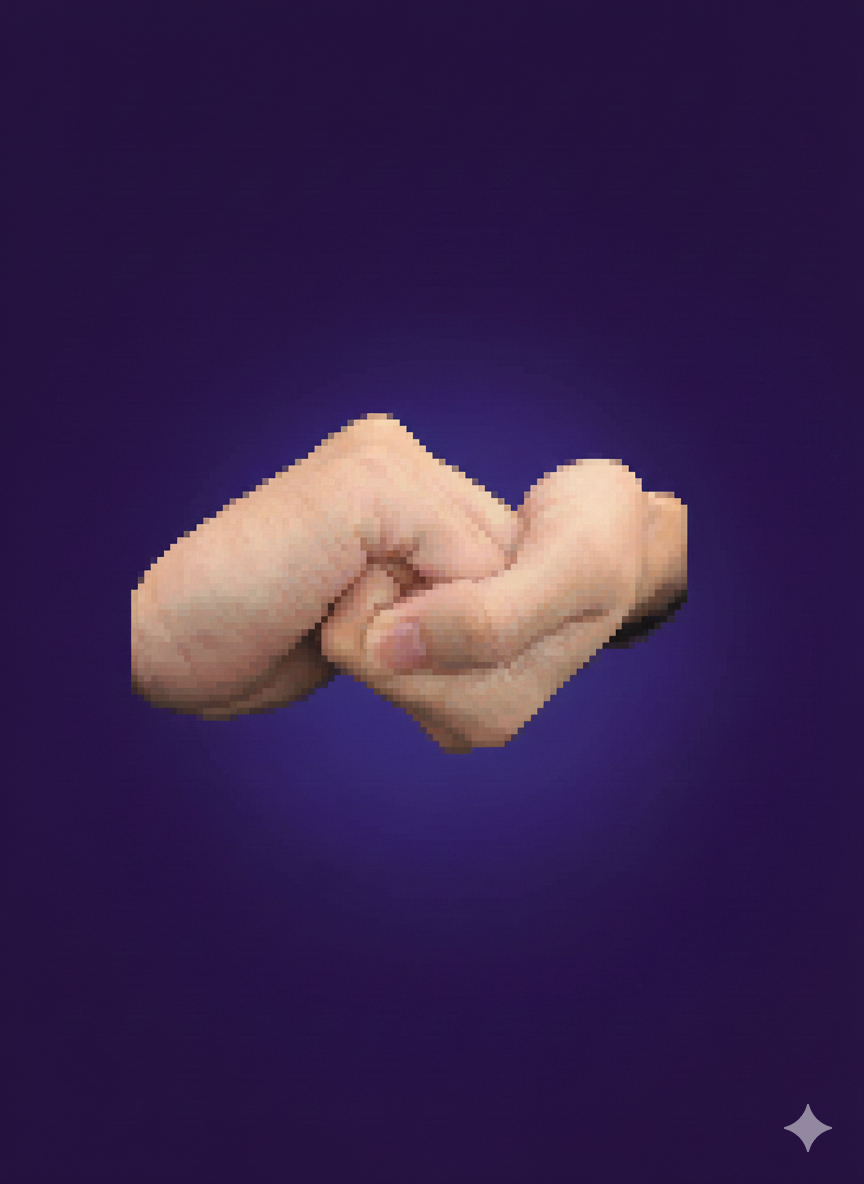
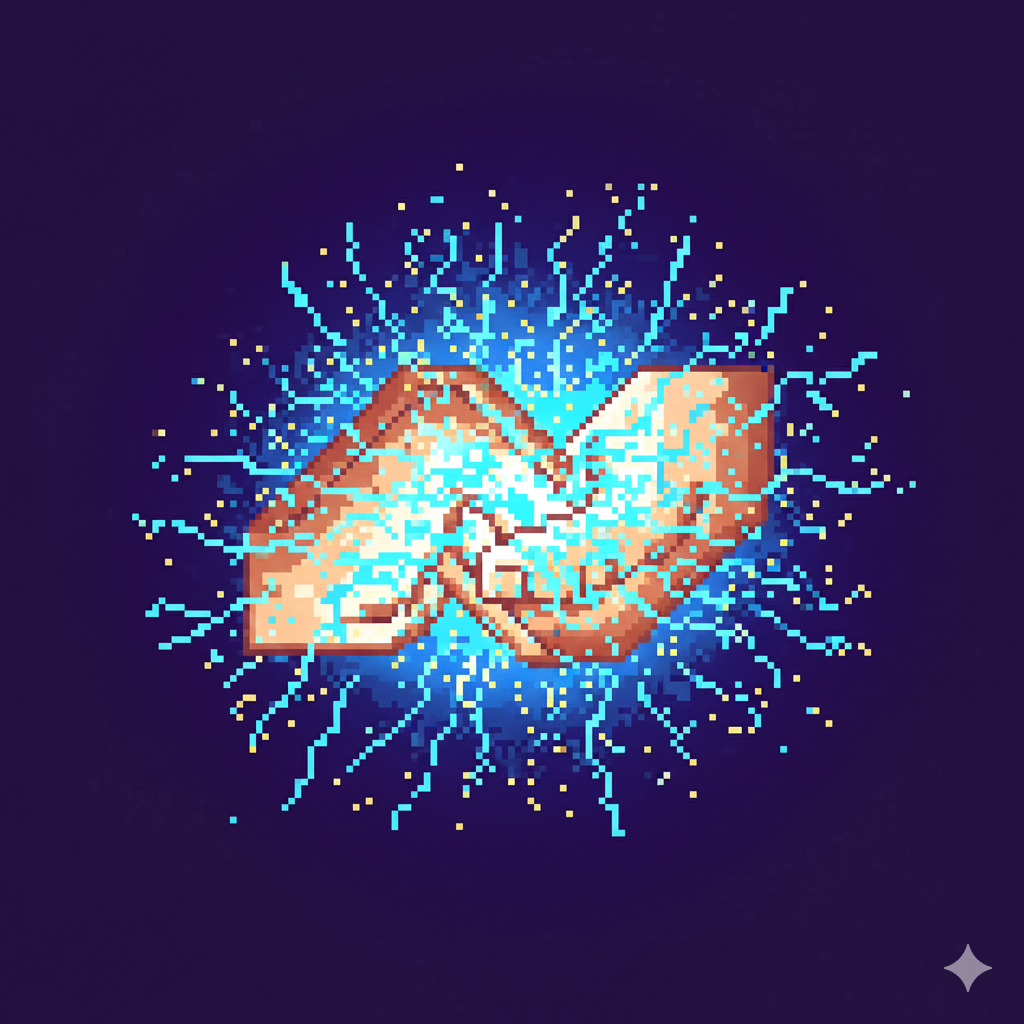
画像変更

diff --git a/Assets/Scripts/Charge/ChargeHandViewer.cs b/Assets/Scripts/Charge/ChargeHandViewer.cs
@@ -4,12 +4,23 @@ using UnityEngine.UI;
 
 public class ChargeHandViewer : MonoBehaviour
 {
+    Image image;
+    void Awake()
+    {
+        image = transform.GetComponent<Image>();
+    }
+
     void Start()
     {
         var data = GetIt.Instance.Get<ChargeGameData>();
         data.CurrentHand.Subscribe(hand =>
         {
-            var image = transform.GetComponent<Image>();
+            if (hand == null)
+            {
+                image.sprite = null;
+                return;
+            }
+
             image.sprite = Resources.Load<Sprite>($"Hands/{hand}");
         }).AddTo(this);
     }

diff --git a/Assets/Scripts/Charge/ChargeGameData.cs b/Assets/Scripts/Charge/ChargeGameData.cs
@@ -4,7 +4,7 @@ using R3;
 public class ChargeGameData : IGameData
 {
     public ReactiveProperty<bool> IsGameOver = new(false);
-    public ReactiveProperty<ChargeHands> CurrentHand = new(ChargeHands.Charge);
+    public ReactiveProperty<ChargeHands?> CurrentHand = new(null);
     Observable<bool> IGameData.IsGameOver => IsGameOver;
 
     public void GameOver()

diff --git a/Assets/Scripts/Charge/ChargeGameDataRegister.cs b/Assets/Scripts/Charge/ChargeGameDataRegister.cs
@@ -6,5 +6,4 @@ public class ChargeGameDataRegister : MonoBehaviour
     {
         GetIt.Instance.Register<IGameData, ChargeGameData>(new ChargeGameData());
     }
-
 }
